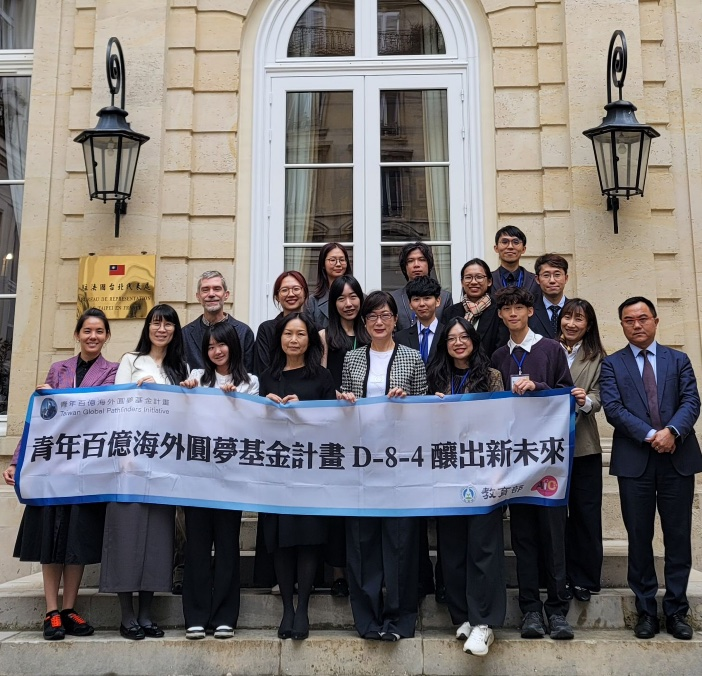
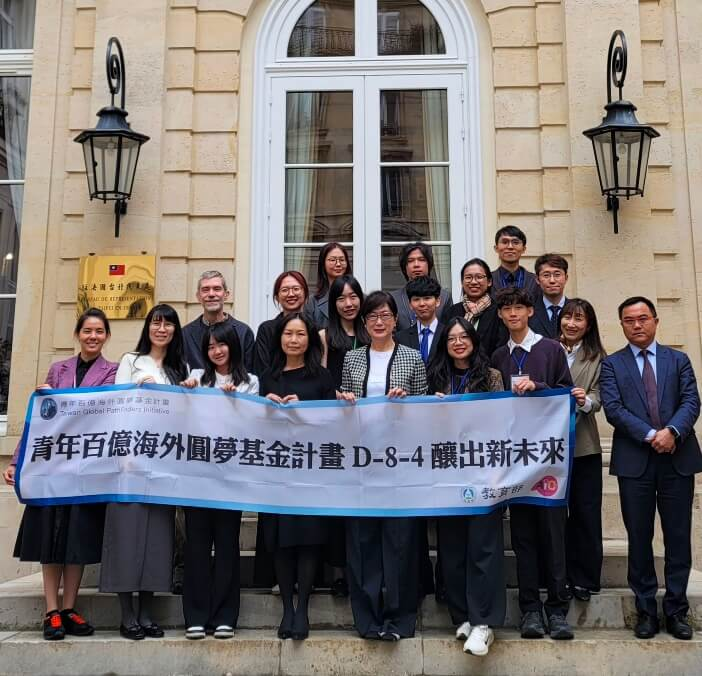
compress the pic

diff --git a/index.html b/index.html
@@ -1180,7 +1180,7 @@
             <div class="sub-title">青年百億海外圓夢基金計畫</div>
 
             <div style="width: 100%; max-width: 320px;">
-                <button class="btn" onclick="goToPage('aroma')">
+                <button class="btn btn-secondary" onclick="goToPage('aroma')">
                     <i class="fas fa-wind"></i> 開始聞香挑戰
                 </button>
                 <button class="btn btn-secondary" onclick="goToPage('knowledge')">
@@ -1566,61 +1566,61 @@
                 <div class="team-grid">
                     <div class="team-member">
                         <div class="member-avatar">
-                            <img src="Profile_Annie.jpg" alt="成員1"
+                            <img src="Profile_Annie.png" alt="成員1"
                                 onerror="this.src='https://cdn-icons-png.flaticon.com/512/847/847969.png'">
                         </div>
                     </div>
                     <div class="team-member">
                         <div class="member-avatar">
-                            <img src="Profile_Agnes.jpg" alt="成員2"
+                            <img src="Profile_Agnes.png" alt="成員2"
                                 onerror="this.src='https://cdn-icons-png.flaticon.com/512/847/847969.png'">
                         </div>
                     </div>
                     <div class="team-member">
                         <div class="member-avatar">
-                            <img src="Profile_Han.jpg" alt="成員3"
+                            <img src="Profile_Han.png" alt="成員3"
                                 onerror="this.src='https://cdn-icons-png.flaticon.com/512/847/847969.png'">
                         </div>
                     </div>
                     <div class="team-member">
                         <div class="member-avatar">
-                            <img src="Profile_HsinWen.jpg" alt="成員4"
+                            <img src="Profile_HsinWen.png" alt="成員4"
                                 onerror="this.src='https://cdn-icons-png.flaticon.com/512/847/847969.png'">
                         </div>
                     </div>
                     <div class="team-member">
                         <div class="member-avatar">
-                            <img src="Profile_Judy.jpg" alt="成員5"
+                            <img src="Profile_Judy.png" alt="成員5"
                                 onerror="this.src='https://cdn-icons-png.flaticon.com/512/847/847969.png'">
                         </div>
                     </div>
                     <div class="team-member">
                         <div class="member-avatar">
-                            <img src="Profile_Kai.jpg" alt="成員6"
+                            <img src="Profile_Kai.png" alt="成員6"
                                 onerror="this.src='https://cdn-icons-png.flaticon.com/512/847/847969.png'">
                         </div>
                     </div>
                     <div class="team-member">
                         <div class="member-avatar">
-                            <img src="Profile_Kailin.jpg" alt="成員7"
+                            <img src="Profile_Kailin.png" alt="成員7"
                                 onerror="this.src='https://cdn-icons-png.flaticon.com/512/847/847969.png'">
                         </div>
                     </div>
                     <div class="team-member">
                         <div class="member-avatar">
-                            <img src="Profile_Lexie.jpg" alt="成員8"
+                            <img src="Profile_Lexie.png" alt="成員8"
                                 onerror="this.src='https://cdn-icons-png.flaticon.com/512/847/847969.png'">
                         </div>
                     </div>
                     <div class="team-member">
                         <div class="member-avatar">
-                            <img src="Profile_Miffy.jpg" alt="成員9"
+                            <img src="Profile_Miffy.png" alt="成員9"
                                 onerror="this.src='https://cdn-icons-png.flaticon.com/512/847/847969.png'">
                         </div>
                     </div>
                     <div class="team-member">
                         <div class="member-avatar">
-                            <img src="Profile_Ricky.jpg" alt="成員10"
+                            <img src="Profile_Ricky.png" alt="成員10"
                                 onerror="this.src='https://cdn-icons-png.flaticon.com/512/847/847969.png'">
                         </div>
                     </div>
@@ -1959,8 +1959,8 @@
                 <div class="detail-block">
                     <h4>Château Desmirail（梅多克三級莊）</h4>
                     <div class="img-row">
-                        <img src="winery_desmirail_1.jpg" class="detail-img" alt="圖片1">
-                        <img src="winery_desmirail_2.jpg" class="detail-img" alt="圖片2">
+                        <img src="winery_desmirail_1.png" class="detail-img" alt="圖片1">
+                        <img src="winery_desmirail_2.png" class="detail-img" alt="圖片2">
                     </div>
                     <p>作為三級莊，這座酒莊提供多元的參訪方案選擇，包括基本參觀、「香氣體驗+品酒」，甚至還有馬車導覽。雖然導覽的核心內容與一般酒莊相似，但從參訪方案的設計、葡萄園與酒窖的管理方式，都能看出列級酒莊在系統化運作上的規模與層次。這也展現了
                         Wine Tourism 可以因應不同客群需求，發展出多樣化的體驗模式。
@@ -1971,7 +1971,7 @@
                 <div class="detail-block">
                     <h4>Frères Moines（干邑產區）</h4>
                     <div class="img-row">
-                        <img src="winery_moines_1.jpg" class="detail-img" alt="圖片1">
+                        <img src="winery_moines_1.png" class="detail-img" alt="圖片1">
                         <img src="winery_moines_2.jpg" class="detail-img" alt="圖片2">
                     </div>
                     <p>這是行程中最深入的橡木桶工藝體驗。實地觀察職人手工製作橡木桶的過程，了解到每個步驟都需要精準的技術與經驗累積，同時也伴隨著一定的危險性。我們認識了勃根地桶與波爾多桶的差異，並親手參與拼裝過程。莊主與職人對於家族事業的投入，以及對工藝品質的堅持，令人印象深刻。酒莊雖然產量不大，但精緻度高，同時也為其他大型酒廠提供白蘭地釀造支援。
@@ -1992,8 +1992,8 @@
                 <div class="detail-block">
                     <h4>混酒工作坊（Château La Croizille）</h4>
                     <div class="img-row">
-                        <img src="workshop_cocktail_1.jpg" class="detail-img" alt="圖片1">
-                        <img src="workshop_cocktail_2.jpg" class="detail-img" alt="圖片2">
+                        <img src="workshop_cocktail_1.png" class="detail-img" alt="圖片1">
+                        <img src="workshop_cocktail_2.png" class="detail-img" alt="圖片2">
 
                     </div>
                     <p>工作坊讓我們有機會親自調配葡萄酒。導覽員引導如何透過不同比例的組合，創造出理想的風味平衡。每個人都嘗試了不同的調配方式，在實作過程中更深刻理解釀酒師在混釀時的思考邏輯。
@@ -2034,8 +2034,8 @@
                 <div class="detail-block">
                     <h4>聖愛美濃 Jurade 採收慶典</h4>
                     <div class="img-row">
-                        <img src="culture_jurade_1.jpg" class="detail-img" alt="圖片1">
-                        <img src="culture_jurade_2.jpg" class="detail-img" alt="圖片2">
+                        <img src="culture_jurade_1.png" class="detail-img" alt="圖片1">
+                        <img src="culture_jurade_2.png" class="detail-img" alt="圖片2">
                     </div>
                     <p>音樂、燈光與中世紀建築相互輝映，穿著傳統服飾的遊行隊伍，呈現出葡萄酒文化如何深植於當地的歷史脈絡中，成為整個產區的榮譽象徵與文化傳承。</p>
 
@@ -2044,8 +2044,8 @@
                 <div class="detail-block">
                     <h4>波爾多葡萄酒博物館（La Cité du Vin）</h4>
                     <div class="img-row">
-                        <img src="culture_museum_1.jpg" class="detail-img" alt="圖片1">
-                        <img src="culture_museum_2.jpg" class="detail-img" alt="圖片2">
+                        <img src="culture_museum_1.png" class="detail-img" alt="圖片1">
+                        <img src="culture_museum_2.png" class="detail-img" alt="圖片2">
                     </div>
                     <p>館內的五感體驗區透過互動設計，讓釀造過程、葡萄品種、地理知識等內容變得容易理解。在這裡參觀就像是一場系統性的知識整理，將分散的經驗串連成完整的架構。</p>
 
@@ -2075,8 +2075,8 @@
                 <div class="detail-block">
                     <h4>波爾多會議局代表交流</h4>
                     <div class="img-row">
-                        <img src="industry_bureau_1.jpg" class="detail-img" alt="圖片1">
-                        <img src="industry_bureau_2.jpg" class="detail-img" alt="圖片2">
+                        <img src="industry_bureau_1.png" class="detail-img" alt="圖片1">
+                        <img src="industry_bureau_2.png" class="detail-img" alt="圖片2">
                     </div>
                     <p>與 Corporate & Congress Project Manager Ilona
                         的交流中，了解到會議局扮演「橋樑與媒合者」的角色，協助主辦單位進行場地建議、供應商媒合與活動策劃支援。 </p>
